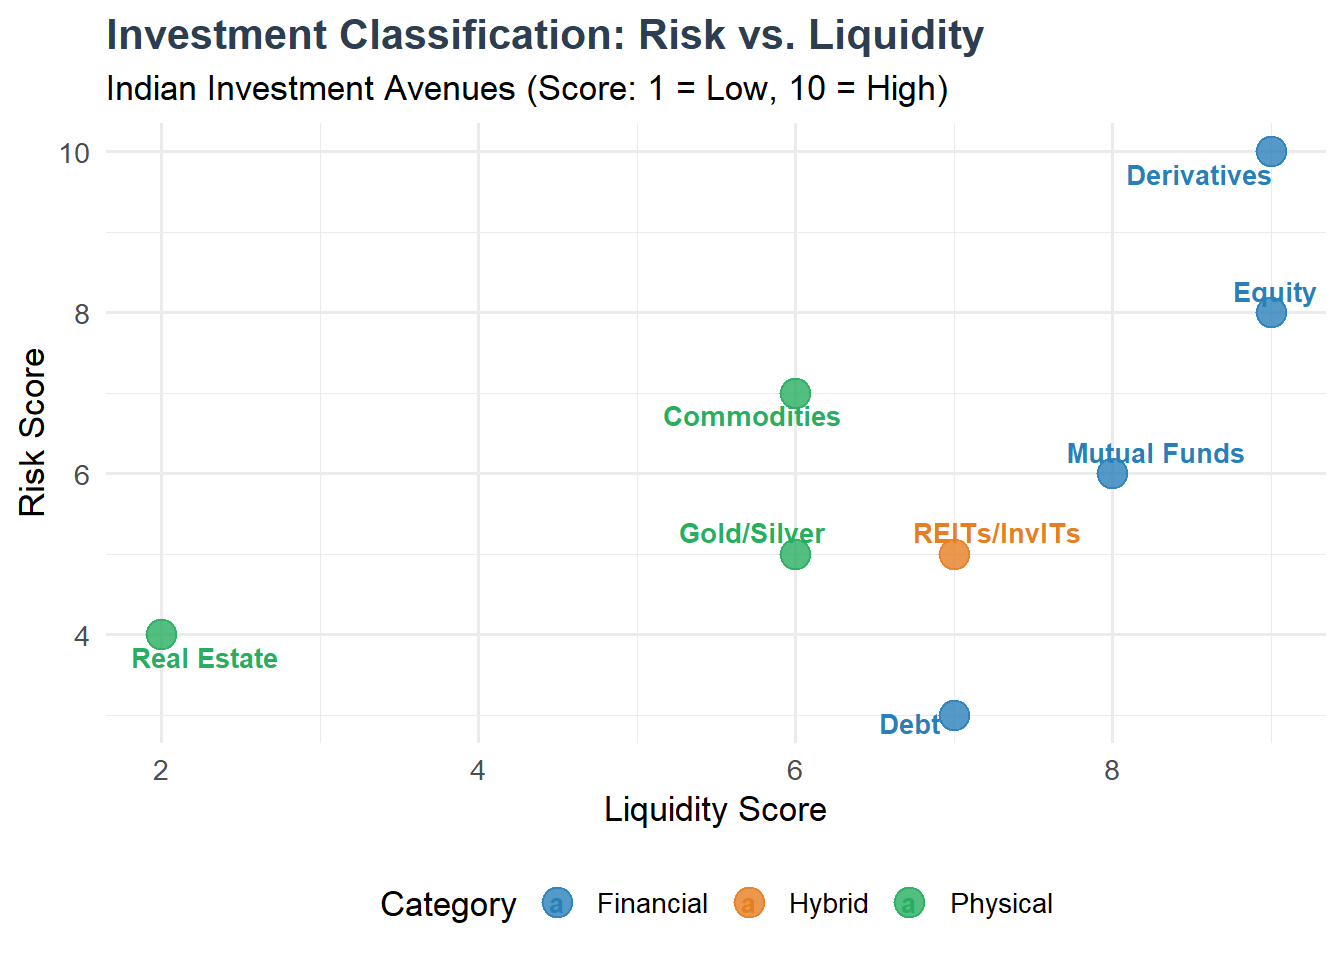
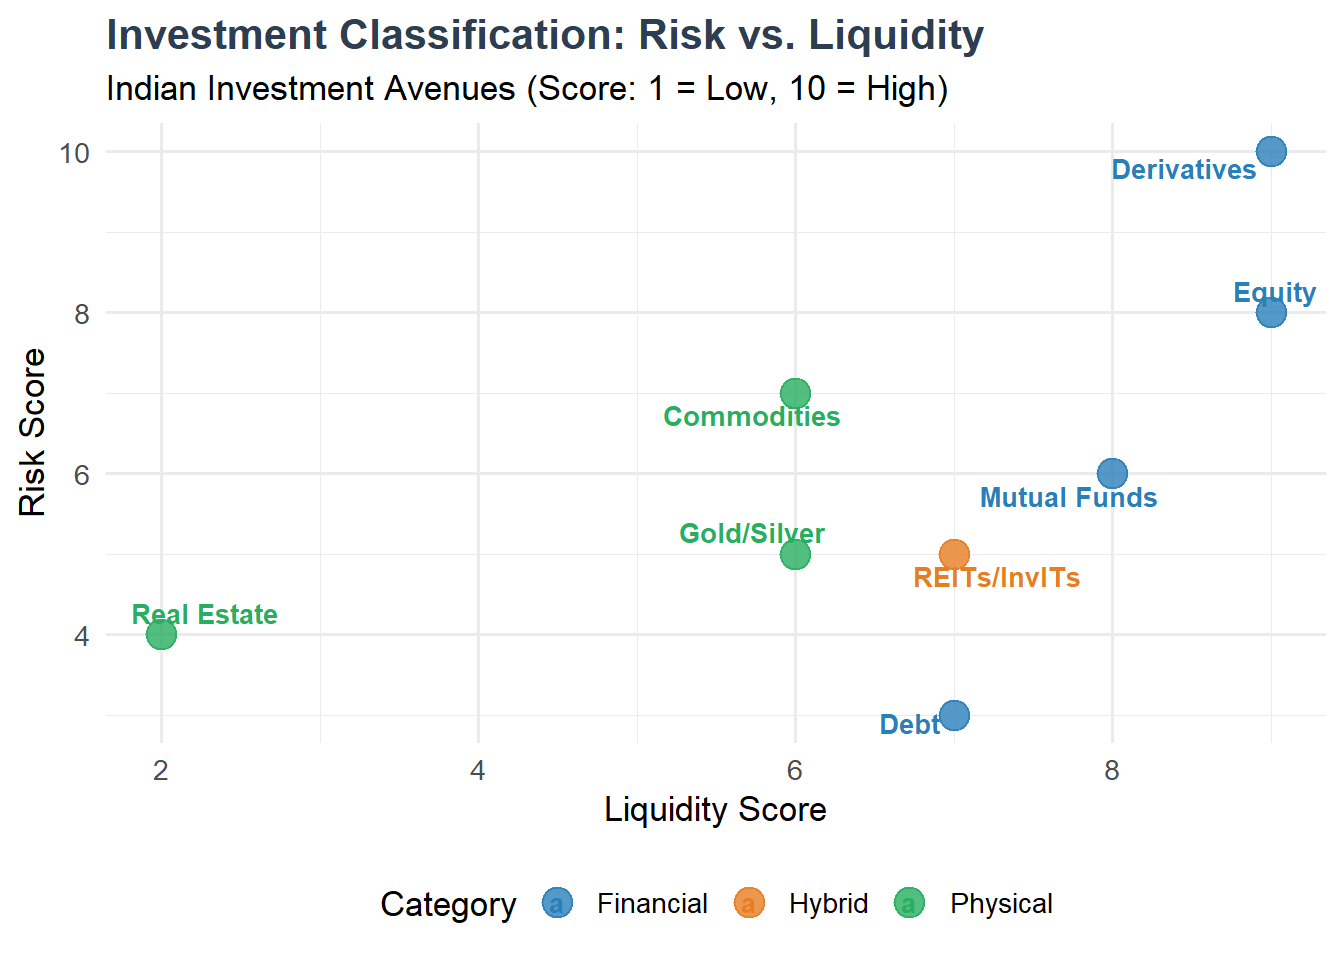
14.06.2026_Module 1 Final_19.42

Changed region(s): [[0.6562, 0.4688, 0.9375, 0.625], [0.0938, 0.625, 0.2188, 0.7188], [0.8125, 0.1562, 0.9375, 0.2188]]

diff --git a/docs/index.html b/docs/index.html
@@ -193,6 +193,7 @@
 </div>
 <div id="investment-vs.-speculation-vs.-gambling" class="section level3 hasAnchor" number="1.1.2">
 <h3><span class="header-section-number">1.1.2</span> Investment vs. Speculation vs. Gambling<a href="index.html#investment-vs.-speculation-vs.-gambling" class="anchor-section" aria-label="Anchor link to header"></a></h3>
+<div style="overflow-x:auto;">
 <table class="table table-striped table-hover" style="margin-left: auto; margin-right: auto;">
 <thead>
 <tr>
@@ -311,6 +312,7 @@ No concern
 </tr>
 </tbody>
 </table>
+</div>
 <p><em>Source: Compiled based on SEBI guidelines and standard finance literature.</em></p>
 </div>
 <div id="characteristics-of-investment" class="section level3 hasAnchor" number="1.1.3">
@@ -570,6 +572,7 @@ Figure 1.2: : Purchasing Power Erosion Due to Inflation (2016–2026)
 <p><strong>D. Traditional Pension Plans</strong>
 - Regular income post-retirement
 - Annuity structure</p>
+<div style="overflow-x:auto;">
 <table class="table table-striped table-hover" style="margin-left: auto; margin-right: auto;">
 <thead>
 <tr>
@@ -696,6 +699,7 @@ Senior citizens
 </tr>
 </tbody>
 </table>
+</div>
 <p><strong>Comparison of Insurance-Linked Investment Products</strong></p>
 <p><em>Source: Compiled from RBI, SEBI, NSE, BSE, AMFI and Government Reports (Latest Available Data).</em></p>
 </div>
@@ -1079,6 +1083,7 @@ Public Provident Fund (PPF)
 <h3><span class="header-section-number">1.4.6</span> Real Estate Investment<a href="index.html#real-estate-investment" class="anchor-section" aria-label="Anchor link to header"></a></h3>
 <p>Real estate has been the most preferred physical asset class among Indian households for generations, driven by cultural affinity, wealth preservation, and rental income.</p>
 <p><strong>Forms of Real Estate Investment:</strong></p>
+<div style="overflow-x:auto;">
 <table>
 <colgroup>
 <col width="12%" />
@@ -1127,6 +1132,7 @@ Public Provident Fund (PPF)
 </tr>
 </tbody>
 </table>
+</div>
 <p><em>Source: Compiled from RBI, SEBI, NSE, BSE, AMFI and Government Reports (Latest Available Data).</em></p>
 <p><strong>Indian Real Estate Market Trends (2016–2026):</strong></p>
 <div class="figure"><span style="display:block;" id="fig:real-estate-trend"></span>
@@ -1146,6 +1152,7 @@ Figure 1.4: : Indian Real Estate Price Index and REIT Growth (2016–2026)
 <h3><span class="header-section-number">1.4.7</span> Gold as an Investment<a href="index.html#gold-as-an-investment" class="anchor-section" aria-label="Anchor link to header"></a></h3>
 <p>Gold occupies a unique position in Indian investment culture — it is simultaneously a <strong>store of value</strong>, <strong>inflation hedge</strong>, <strong>cultural asset</strong>, and <strong>crisis commodity</strong>. India is the world’s second-largest gold consumer.</p>
 <p><strong>Forms of Gold Investment in India:</strong></p>
+<div style="overflow-x:auto;">
 <table class="table table-striped table-hover" style="font-size: 11px; margin-left: auto; margin-right: auto;">
 <thead>
 <tr>
@@ -1271,6 +1278,7 @@ High
 </tr>
 </tbody>
 </table>
+</div>
 <p><strong>Gold Investment Options in India (2024)</strong></p>
 <p><em>Source: Compiled from RBI, SEBI, NSE, BSE, AMFI and Government Reports (Latest Available Data).</em></p>
 <p><strong>Sovereign Gold Bonds (SGBs):</strong> Introduced by RBI in 2015, SGBs are the most investor-friendly gold investment:
@@ -1735,7 +1743,7 @@ Risk-adjusted performance benchmarking
 <h2><span class="header-section-number">1.9</span> MCQs — Module I<a href="index.html#Module1-mcqs" class="anchor-section" aria-label="Anchor link to header"></a></h2>
 <p><strong>1.</strong> Investment is best defined as:
 - (A) Gambling with surplus funds
-- (B) <del>Commitment of present certain value for uncertain future return</del> ← <strong>Correct</strong>
+- (B) Commitment of present certain value for uncertain future return ← <strong>Correct</strong>
 - (C) Speculation in stock markets
 - (D) Depositing money in a savings account</p>
 <p><em>Answer: B. Investment involves sacrificing present certain consumption for future uncertain returns with the expectation of income or capital appreciation.</em></p>